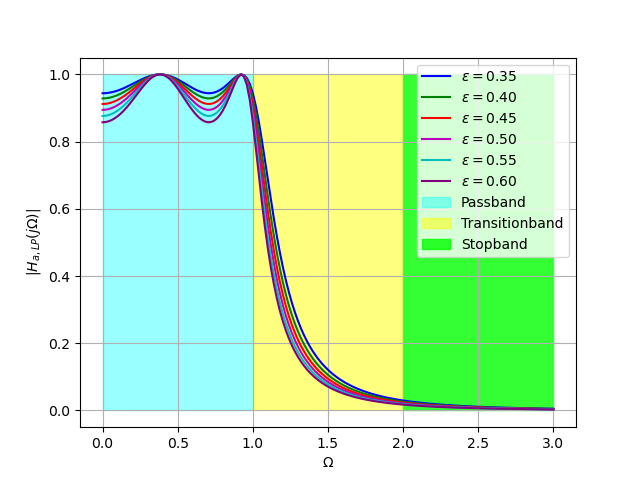
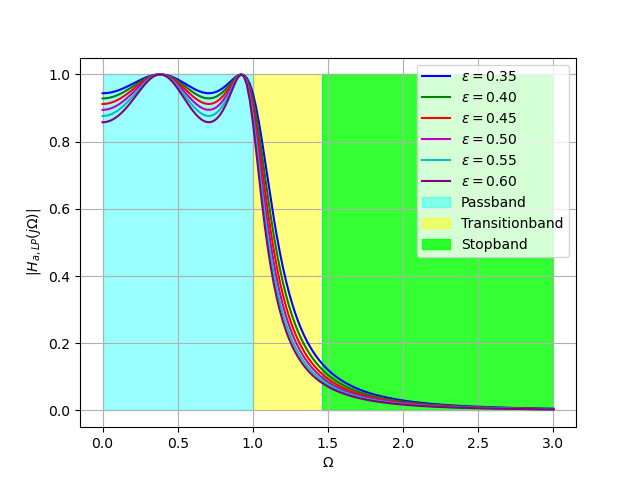
commit

Changed region(s): [[0.5, 0.1562, 0.6562, 0.875]]

diff --git a/Filter Design/main.tex b/Filter Design/main.tex
@@ -265,8 +265,8 @@ such that $H_{a,BP}(j\Omega_{p1}) = 1$, we obtain
 {\tiny
 \begin{align}
 \label{bpfinal}
-H_{a,BP}(s) &= \frac{2.0601\times 10^{-5}s^4}{s^8+0.0979s^7+0.5081s^6+0.0370s^5+0.0952s^4+0.0046s^3+0.0078s^2+0.0002s+0.0002}\\
-G_{BP} & = 2.0601\times 10^{-5}
+H_{a,BP}(s) &= \frac{1.908\times 10^{-5}s^4}{s^8+0.0979s^7+0.5081s^6+0.0370s^5+0.0952s^4+0.0046s^3+0.0078s^2+0.0002s+0.0002}\\
+G_{BP} & = 1.048\times 10^{-5}
 \end{align}
 }
 Below is the code which plots the \figref{fig3}:
@@ -296,7 +296,7 @@ where $G$ is the gain of the digital filter.  From (\ref{bpfinal}) and (\ref{ana
 \begin{eqnarray}
 H_{d,BP}(z) = G \frac{N(z)}{D(z)}
 \end{eqnarray}
-where $G =  2.0601\times 10^{-5}$,
+where $G =  1.908\times 10^{-5}$,
 
 \begin{eqnarray}
 N(z)=  1 - 4 z^{-2} + 6 z^{-4} - 4z^{-6} + z^{-8} 

diff --git a/Filter Design/codes/1_epsilon.py b/Filter Design/codes/1_epsilon.py
@@ -10,8 +10,8 @@ for N in range(4, 5):  # N = 4
         ax.plot(Omega, H, color=colors[i], label=f'$\\epsilon = {epsilon:.2f}$')
 
 passband = (Omega >= 0) & (Omega <= 1)
-transitionband = (Omega >= 1) & (Omega <= 2)
-stopband = (Omega >= 2) & (Omega <= 3)
+transitionband = (Omega >= 1) & (Omega <= 1.459)
+stopband = (Omega >= 1.459) & (Omega <= 3)
 ax.fill_between(Omega, 0, 1, where=passband, color='cyan', alpha=0.4, label='Passband')
 ax.fill_between(Omega, 0, 1, where=transitionband, color='yellow', alpha=0.5, label='Transitionband')
 ax.fill_between(Omega, 0, 1, where=stopband, color='#00FF00', alpha=0.8, label='Stopband')

diff --git a/Filter Design/codes/3_iir_l.py b/Filter Design/codes/3_iir_l.py
@@ -101,7 +101,7 @@ H_analog_lp = G_lp * np.abs(1 / np.polyval(p, 1j * Omega_L))
 
 # Analog bandpass filter
 num, den, G_bp = lpbp(p, Omega_0, B, Omega_p2)
-
+print(num)
 Omega = np.arange(-0.65, 0.651, 0.01)
 H_analog_bp = G_bp * np.abs(np.polyval(num, 1j * Omega) / np.polyval(den, 1j * Omega))
 
@@ -109,5 +109,5 @@ plt.plot(Omega, H_analog_bp, 'm')
 plt.xlabel('$\\Omega$')
 plt.ylabel('$|H_{a,BP}(j\\Omega)|$')
 plt.grid()
-plt.savefig('fig3.png')
+#plt.savefig('fig3.png')
 plt.show()
